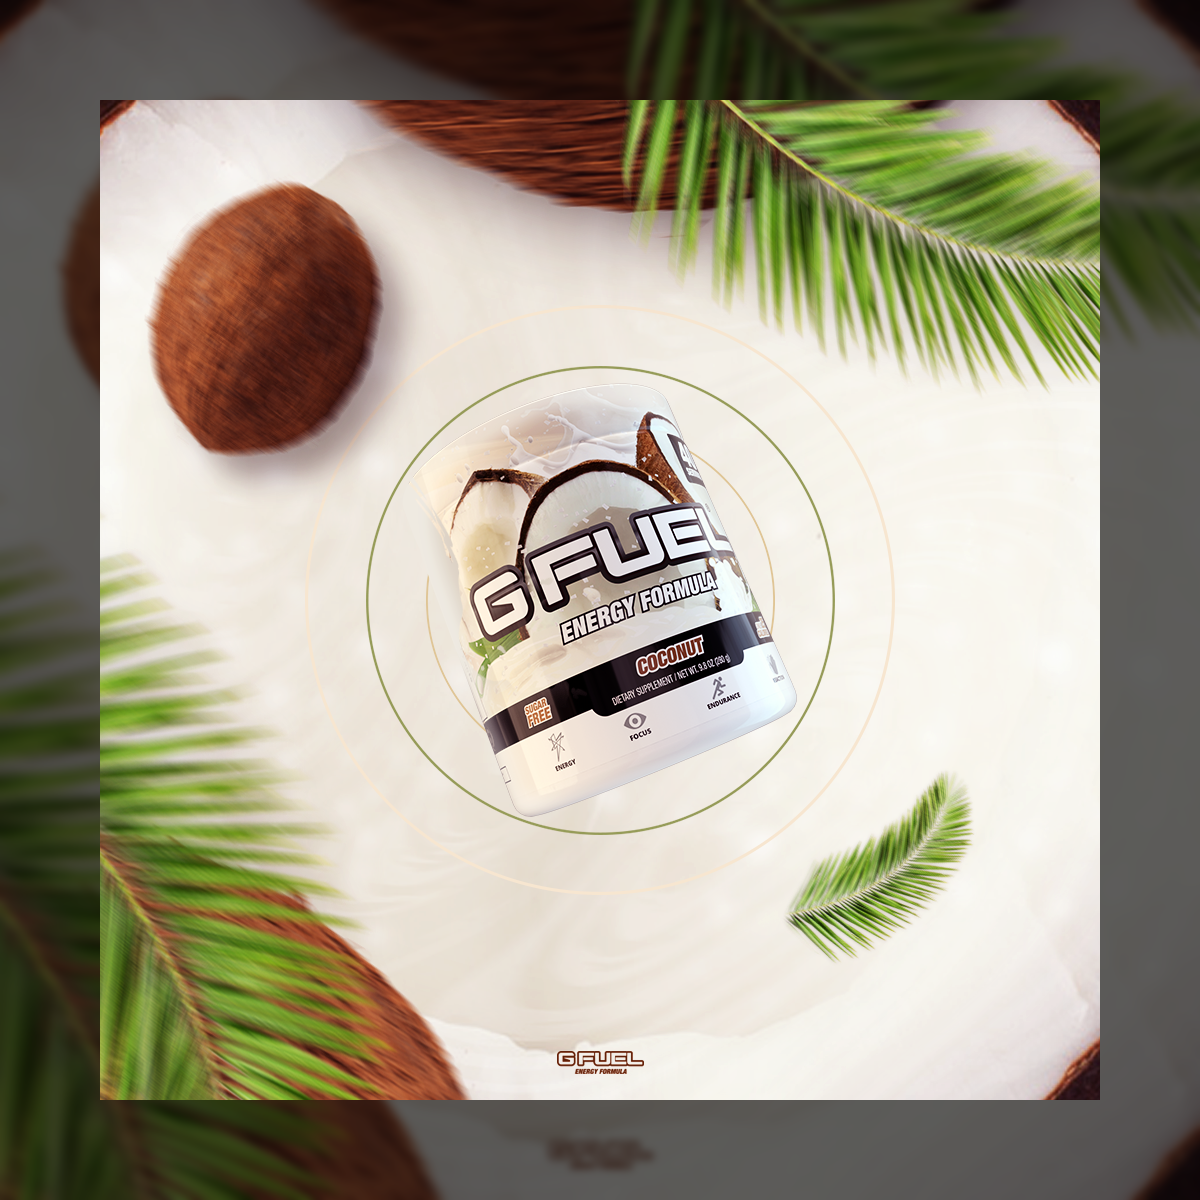
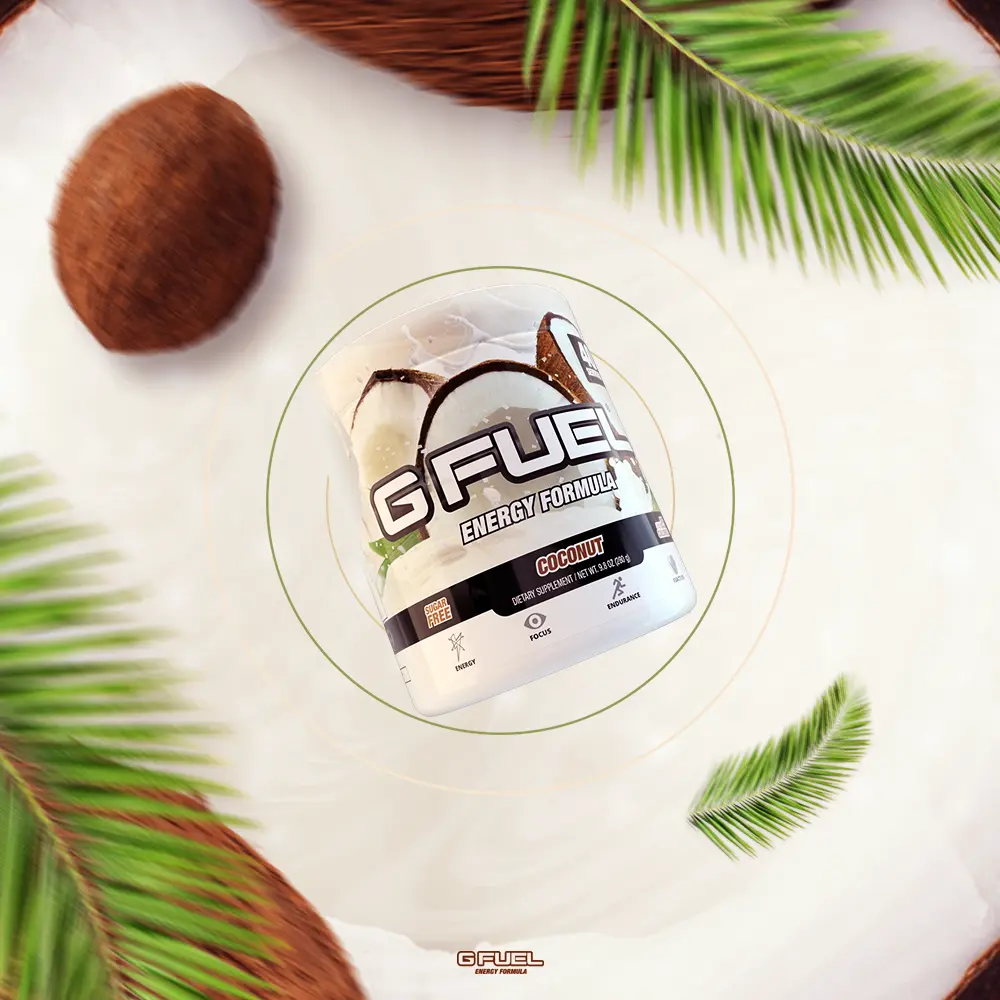
updated design images to HD ones + added more.

diff --git a/src/pages/Design/Design.tsx b/src/pages/Design/Design.tsx
@@ -63,6 +63,13 @@ export const design_images: string[] = [
   "27.webp",
   "28.webp",
   "29.webp",
+  "30.webp",
+  "31.webp",
+  "32.webp",
+  "33.webp",
+  "34.webp",
+  "35.webp",
+  "36.webp",
 ];
 
 const Design = () => {
